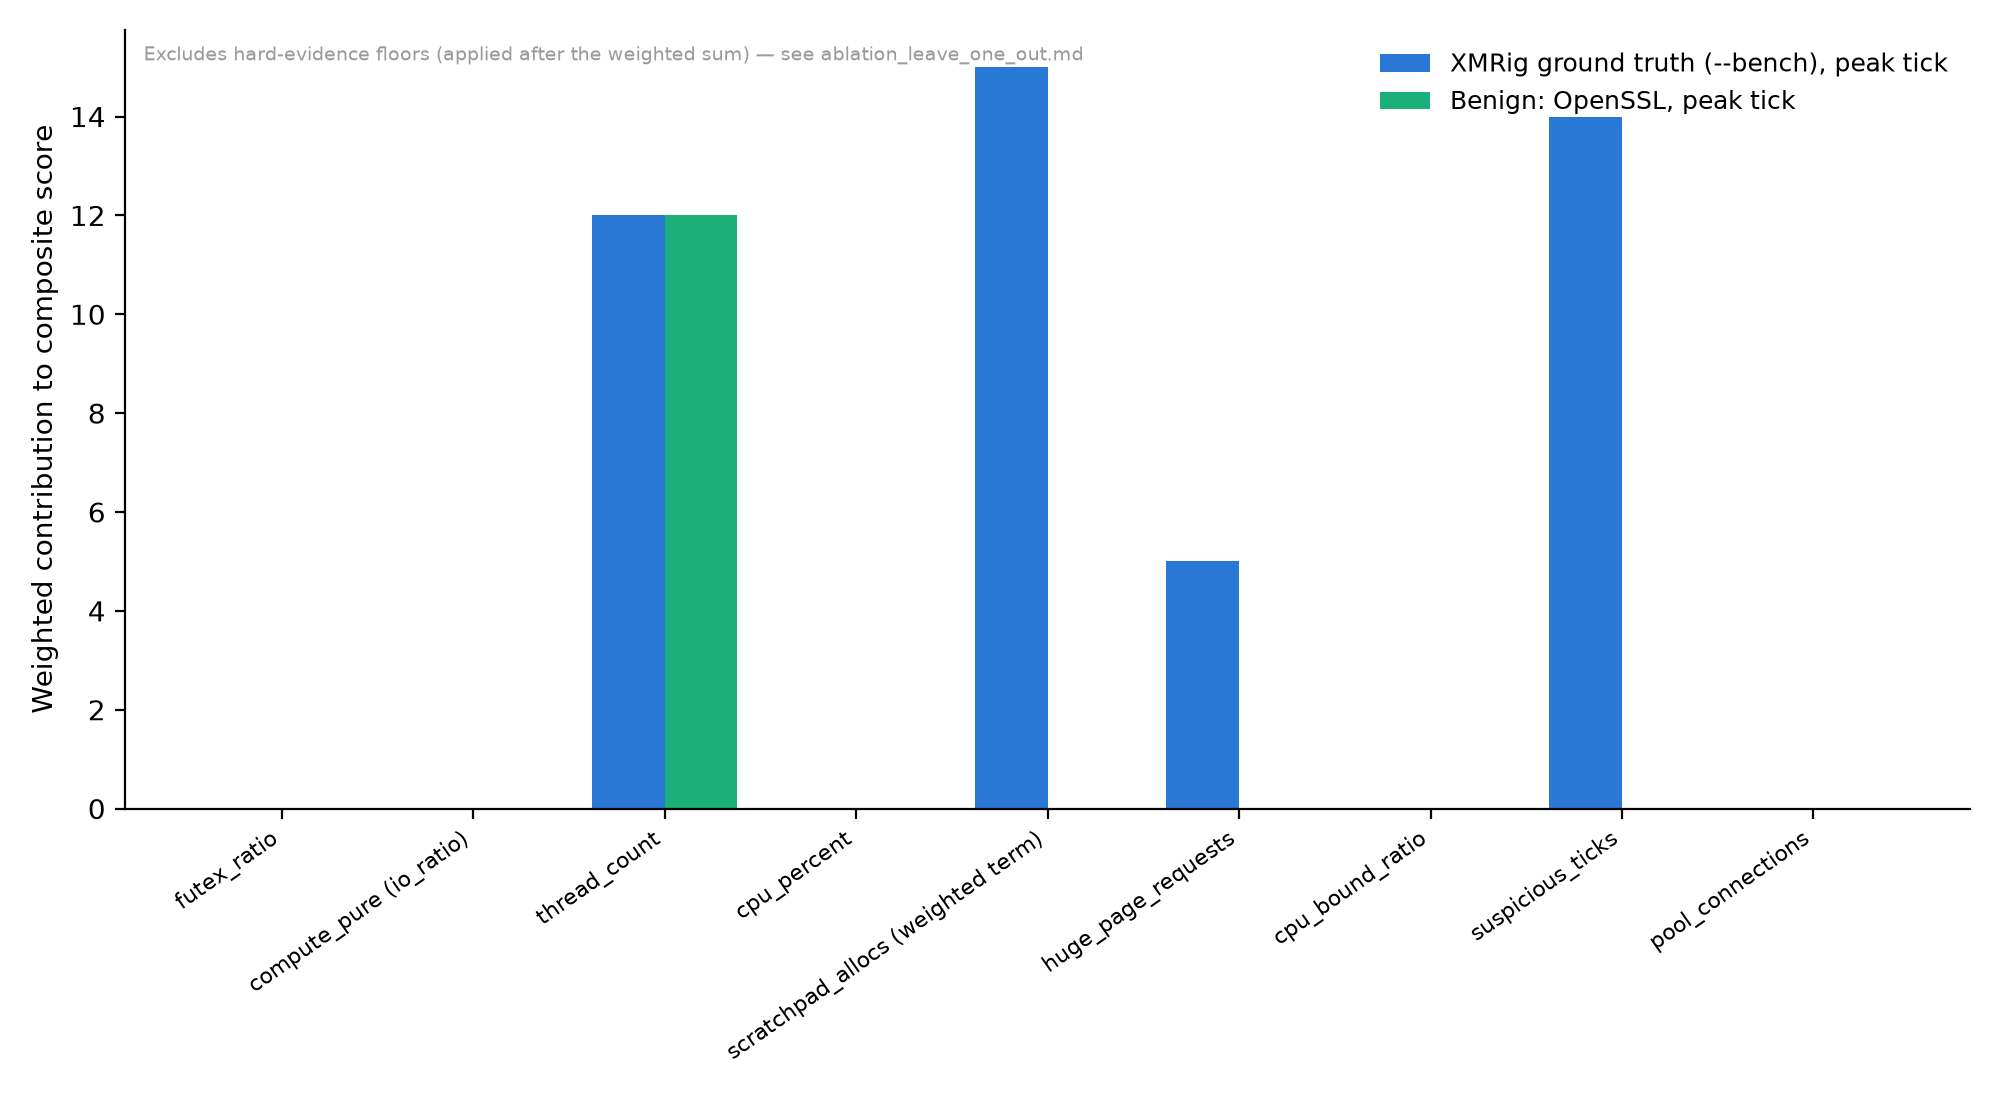
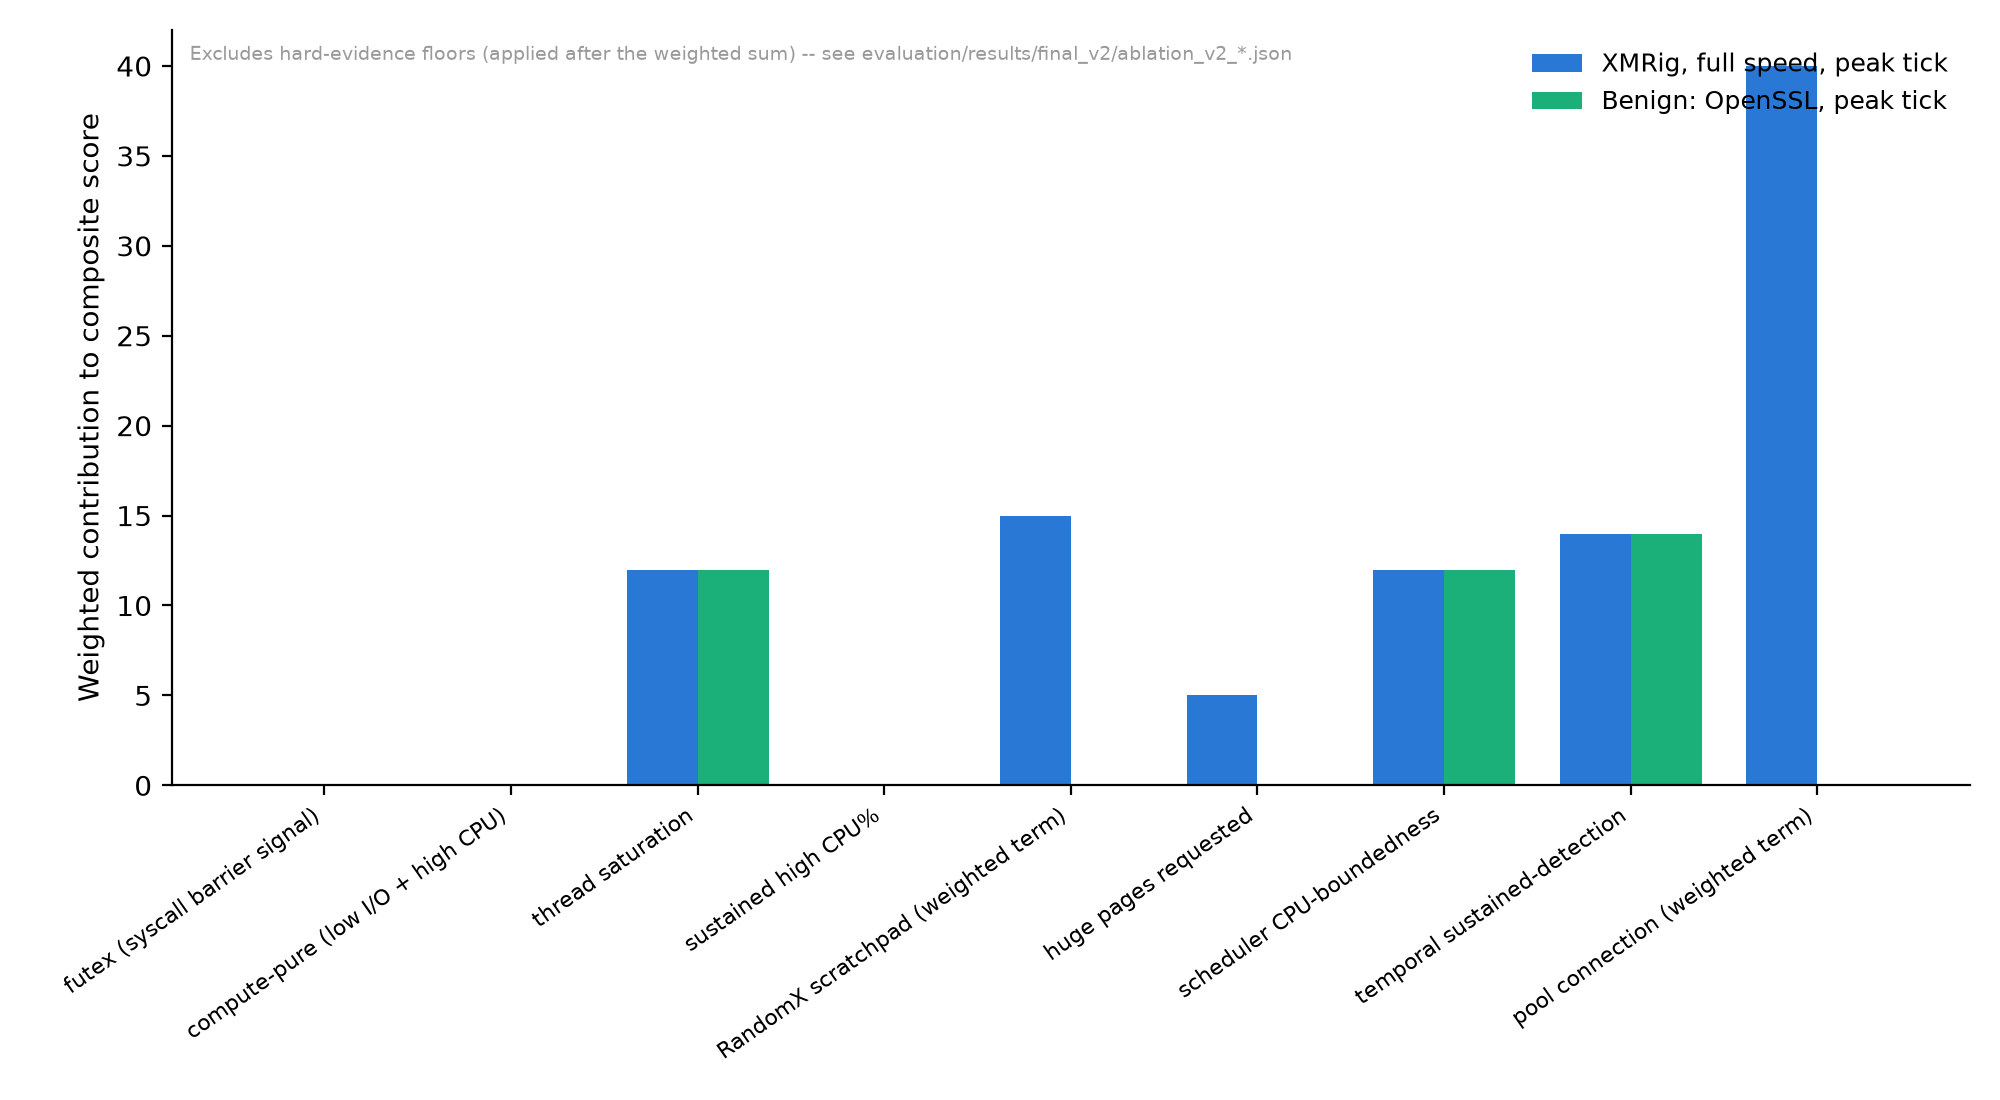
Regenerate score-trajectory, feature-contribution, latency figures for v2
Adds build_score_trajectory_figure(), build_feature_contribution_figure(),
and build_latency_distribution_figure() to eddmc_eval.py, following the
same convention as the existing build_cascade_figure(): read whichever
FINAL_DIR is active via EDDMC_EVAL_OUT, write to the fixed figures/ dir.

- fig_score_trajectory.png: now plots the v2 (corrected-scheduler) XMRig
  full-speed/UPX-packed and benign OpenSSL/gcc tracks instead of the stale
  pre-fix ones.
- fig_feature_contribution.png: recomputes mining-vs-benign peak-tick
  contributions fresh via _replay_row_ablated() against v2_xmrig_fullspeed
  and v2_benign_openssl_t1, replacing the old feature_contributions.csv
  dependency (which only existed for the pre-fix run). OpenSSL's bars sum
  to exactly 38, cross-checking against its known replayed LOW-tier score.
- fig_latency_distribution.png: uses the real 39 scan-cycle gaps measured
  in Task 5 of the v2 re-evaluation (/tmp/eddmc_v2_scancadence.log), not
  the old hardcoded 13-value list from a single prior REPORT.md run.

diff --git a/evaluation/eddmc_eval.py b/evaluation/eddmc_eval.py
@@ -1145,6 +1145,17 @@ def _group_by_pid(rows):
     return groups
 
 
+def _max_score_by_tick(rows):
+    """Aggregate multiple PIDs sharing one capture tick (parallel worker
+    processes in some benign/mining tracks) down to the worst-case score per
+    tick, so 'one line per track' is well-defined even for multi-PID tracks."""
+    by_tick = {}
+    for r in rows:
+        t = float(r["elapsed_s"])
+        by_tick[t] = max(by_tick.get(t, 0.0), float(r["score"]))
+    return sorted(by_tick.items())
+
+
 def baseline_b1(rows_for_pid, cpu_series, T, D):
     """Flag once rolling utilisation stays >= T% for >= D seconds, continuously."""
     flags = [False] * len(rows_for_pid)
@@ -2217,6 +2228,176 @@ def build_cascade_figure(files):
     fig.tight_layout()
     os.makedirs(FIGURES_DIR, exist_ok=True)
     out_path = os.path.join(FIGURES_DIR, "fig_cascade_progression.png")
+    fig.savefig(out_path, dpi=200)
+    plt.close(fig)
+    print(f"[report] wrote {out_path}")
+    return out_path
+
+
+def build_score_trajectory_figure():
+    """Composite score vs. time for two mining and two benign representative
+    tracks, aggregated to worst-case score per capture tick. Reads whichever
+    FINAL_DIR is active (respects EDDMC_EVAL_OUT) via _glob_latest -- run with
+    EDDMC_EVAL_OUT=final_v2 to plot the corrected-scheduler (v2) tracks."""
+    try:
+        import matplotlib
+        matplotlib.use("Agg")
+        import matplotlib.pyplot as plt
+    except ImportError:
+        print("[report] matplotlib not available in this interpreter -- "
+              "fig_score_trajectory.png not generated.", file=sys.stderr)
+        return None
+
+    BLUE, ORANGE, AQUA, YELLOW = "#2a78d6", "#eb6834", "#1baf7a", "#eda100"
+    GRID_GRAY = "#9a9a9a"
+    tracks = [
+        ("XMRig, full speed", "capture_v2_xmrig_fullspeed_*.csv", BLUE),
+        ("XMRig, UPX-packed", "capture_v2_xmrig_upx_packed_*.csv", ORANGE),
+        ("Benign: OpenSSL crypto benchmark", "capture_v2_benign_openssl_t1_*.csv", AQUA),
+        ("Benign: parallel gcc compilation", "capture_v2_benign_gcc_t1_*.csv", YELLOW),
+    ]
+
+    fig, ax = plt.subplots(figsize=(9, 5.5))
+    plotted = 0
+    for label, pattern, color in tracks:
+        path = _glob_latest(pattern)
+        if not path:
+            print(f"[report] no file for {pattern} -- skipping '{label}' in "
+                  f"fig_score_trajectory.png", file=sys.stderr)
+            continue
+        series = _max_score_by_tick(_load_rows(path))
+        xs = [t for t, _ in series]
+        ys = [s for _, s in series]
+        ax.plot(xs, ys, color=color, linewidth=2, label=label, solid_capstyle="round")
+        plotted += 1
+    if not plotted:
+        print("[report] no tracks available -- fig_score_trajectory.png not generated.", file=sys.stderr)
+        plt.close(fig)
+        return None
+
+    for y, tier in [(20, "LOW"), (40, "MEDIUM"), (60, "HIGH"), (80, "CRITICAL")]:
+        ax.axhline(y, color=GRID_GRAY, linewidth=1, linestyle=(0, (4, 3)), zorder=0)
+        ax.text(1, y + 1.2, tier, color=GRID_GRAY, fontsize=8, va="bottom")
+
+    ax.set_xlabel("Elapsed time (s)")
+    ax.set_ylabel("Composite suspicion score (0-100)")
+    ax.set_ylim(-3, 103)
+    ax.spines["top"].set_visible(False)
+    ax.spines["right"].set_visible(False)
+    ax.legend(loc="upper left", frameon=False, fontsize=9)
+    fig.tight_layout()
+    os.makedirs(FIGURES_DIR, exist_ok=True)
+    out_path = os.path.join(FIGURES_DIR, "fig_score_trajectory.png")
+    fig.savefig(out_path, dpi=200)
+    plt.close(fig)
+    print(f"[report] wrote {out_path}")
+    return out_path
+
+
+def build_feature_contribution_figure():
+    """Per-feature weighted contribution at each track's own replayed peak
+    tick, mining vs. benign, floor-excluded (same weighted-sum-excluding-
+    floors basis cmd_ablation uses). Recomputes fresh for both tracks via
+    _replay_row_ablated() rather than depending on ablation_v2_*.json, which
+    only covers mining tracks -- keeps this figure self-contained. Reads
+    whichever FINAL_DIR is active (respects EDDMC_EVAL_OUT)."""
+    try:
+        import matplotlib
+        matplotlib.use("Agg")
+        import matplotlib.pyplot as plt
+    except ImportError:
+        print("[report] matplotlib not available in this interpreter -- "
+              "fig_feature_contribution.png not generated.", file=sys.stderr)
+        return None
+
+    BLUE, AQUA, GRID_GRAY = "#2a78d6", "#1baf7a", "#9a9a9a"
+    mining_path = _glob_latest("capture_v2_xmrig_fullspeed_*.csv")
+    benign_path = _glob_latest("capture_v2_benign_openssl_t1_*.csv")
+    if not mining_path or not benign_path:
+        print("[report] missing mining/benign v2 track -- "
+              "fig_feature_contribution.png not generated.", file=sys.stderr)
+        return None
+
+    def _peak_contributions(path):
+        rows = _load_rows(path)
+        replayed = replay_track(rows)
+        _, peak_row = max(((res, r) for r, res, _, _ in replayed), key=lambda t: t[0].score)
+        floor_excluded_baseline = _replay_row_ablated(peak_row, group_keys=None, zero_floors=True).score
+        contributions = {}
+        for group_name, group_keys in ABLATION_GROUPS.items():
+            ablated = _replay_row_ablated(peak_row, group_keys=group_keys, zero_floors=True)
+            contributions[group_name] = round(floor_excluded_baseline - ablated.score, 2)
+        return contributions
+
+    m = _peak_contributions(mining_path)
+    b = _peak_contributions(benign_path)
+    features = list(ABLATION_GROUPS.keys())
+
+    x = range(len(features))
+    width = 0.38
+    fig, ax = plt.subplots(figsize=(10, 5.5))
+    ax.bar([i - width / 2 for i in x], [m[f] for f in features], width,
+           color=BLUE, label="XMRig, full speed, peak tick")
+    ax.bar([i + width / 2 for i in x], [b[f] for f in features], width,
+           color=AQUA, label="Benign: OpenSSL, peak tick")
+    ax.set_xticks(list(x))
+    ax.set_xticklabels(features, rotation=35, ha="right", fontsize=8)
+    ax.set_ylabel("Weighted contribution to composite score")
+    ax.spines["top"].set_visible(False)
+    ax.spines["right"].set_visible(False)
+    ax.legend(loc="upper right", frameon=False, fontsize=9)
+    ax.text(0.01, 0.98, "Excludes hard-evidence floors (applied after the weighted sum) -- "
+            "see evaluation/results/final_v2/ablation_v2_*.json",
+            transform=ax.transAxes, fontsize=7, color=GRID_GRAY, va="top")
+    fig.tight_layout()
+    os.makedirs(FIGURES_DIR, exist_ok=True)
+    out_path = os.path.join(FIGURES_DIR, "fig_feature_contribution.png")
+    fig.savefig(out_path, dpi=200)
+    plt.close(fig)
+    print(f"[report] wrote {out_path}")
+    return out_path
+
+
+def build_latency_distribution_figure():
+    """Histogram of scan-cycle gaps. Uses the 39 real gaps measured during
+    Task 5 of the 2026-08 re-evaluation round (raw DEBUG timestamps in
+    /tmp/eddmc_v2_scancadence.log, consecutive-difference of 40 'scan tick
+    at <ts>' lines) -- a real, larger sample than the 13 gaps the original
+    (pre-v2) figure used, not a re-measurement invented for this figure."""
+    try:
+        import matplotlib
+        matplotlib.use("Agg")
+        import matplotlib.pyplot as plt
+    except ImportError:
+        print("[report] matplotlib not available in this interpreter -- "
+              "fig_latency_distribution.png not generated.", file=sys.stderr)
+        return None
+
+    BLUE, ORANGE, GRID_GRAY = "#2a78d6", "#eb6834", "#9a9a9a"
+    # Source: /tmp/eddmc_v2_scancadence.log, Task 5 of the v2 re-evaluation
+    # round (2026-08-04). 40 "scan tick at <ts>" DEBUG lines -> 39 consecutive
+    # gaps. See evaluation/results/final_v2/detection_latency_v2.json for the
+    # summary stats (mean=12.30s, sd=1.74s, min=9.2s, max=20.1s) this raw list
+    # was already used to compute.
+    gaps = [9.2, 9.64, 9.87, 10.26, 11.37, 14.98, 20.12, 12.54, 12.27, 12.15,
+            12.16, 12.17, 12.16, 12.2, 12.22, 12.31, 12.28, 12.38, 12.34, 12.27,
+            12.31, 12.37, 12.34, 12.38, 12.31, 12.62, 12.47, 12.45, 12.45, 12.15,
+            12.35, 12.54, 12.4, 12.94, 12.27, 12.82, 12.69, 12.48, 13.46]
+
+    fig, ax = plt.subplots(figsize=(8, 5))
+    ax.hist(gaps, bins=8, color=BLUE, edgecolor="white", linewidth=1.2)
+    ax.axvline(5, color=ORANGE, linewidth=2, linestyle=(0, (4, 3)), label="Configured scan interval (5s)")
+    ax.set_xlabel("Scan-cycle gap (s)")
+    ax.set_ylabel("Count")
+    ax.spines["top"].set_visible(False)
+    ax.spines["right"].set_visible(False)
+    ax.legend(loc="upper right", frameon=False, fontsize=9)
+    ax.text(0.98, 0.80, f"n={len(gaps)} gaps, single measurement run\n"
+            "(v2 re-evaluation, Task 5 scan-cadence log)", transform=ax.transAxes,
+            fontsize=8, color=GRID_GRAY, ha="right", va="top")
+    fig.tight_layout()
+    out_path = os.path.join(FIGURES_DIR, "fig_latency_distribution.png")
+    os.makedirs(FIGURES_DIR, exist_ok=True)
     fig.savefig(out_path, dpi=200)
     plt.close(fig)
     print(f"[report] wrote {out_path}")
